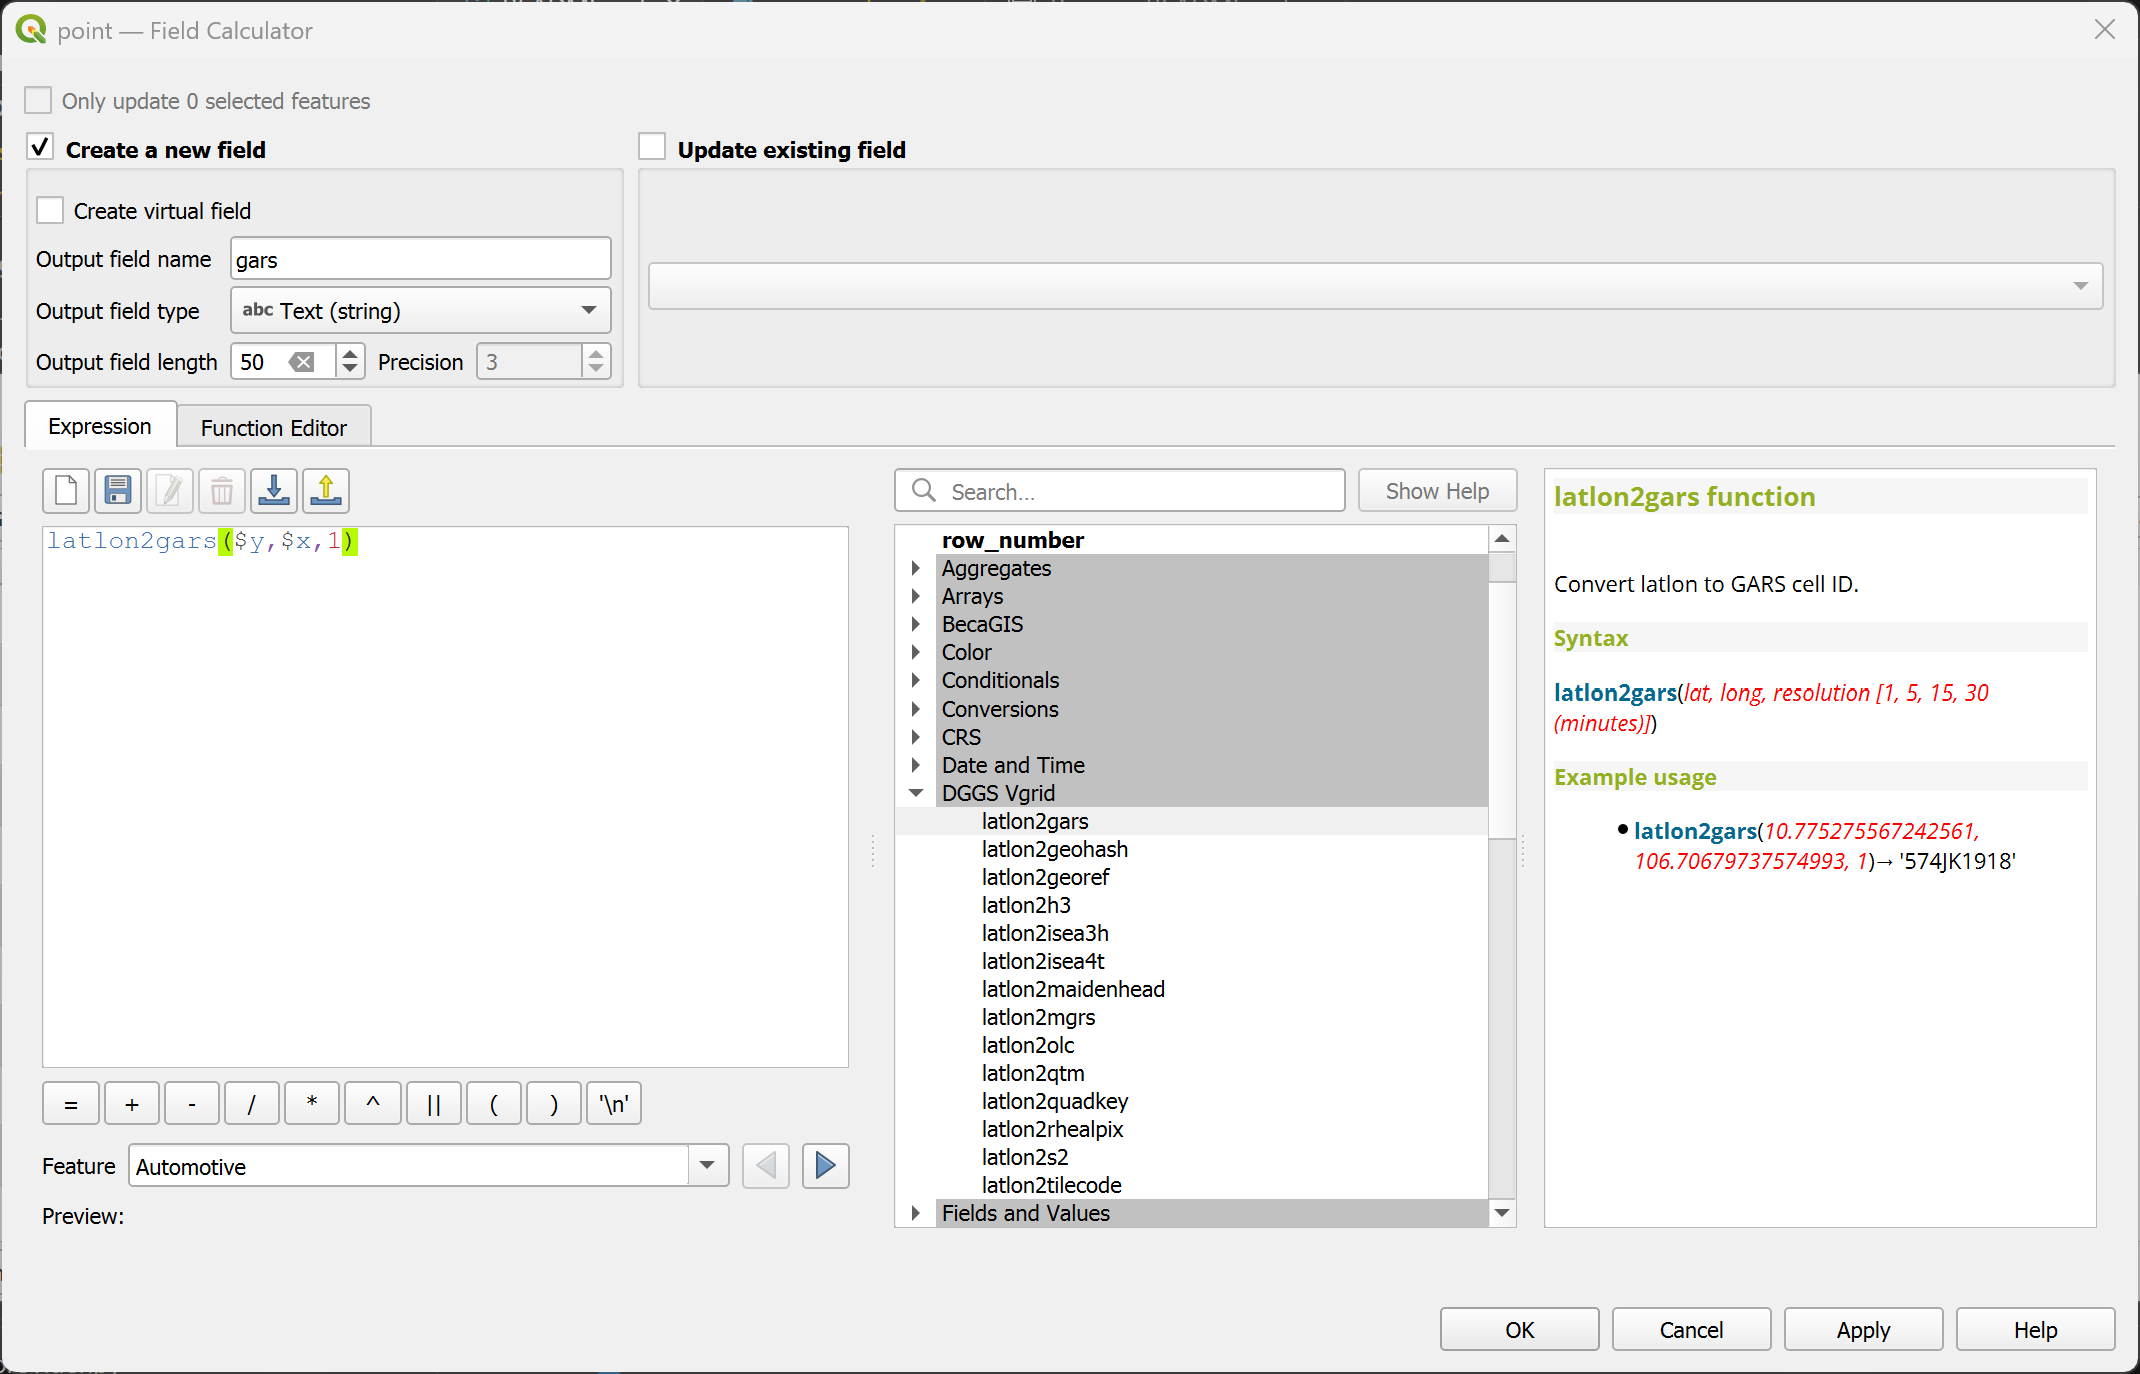
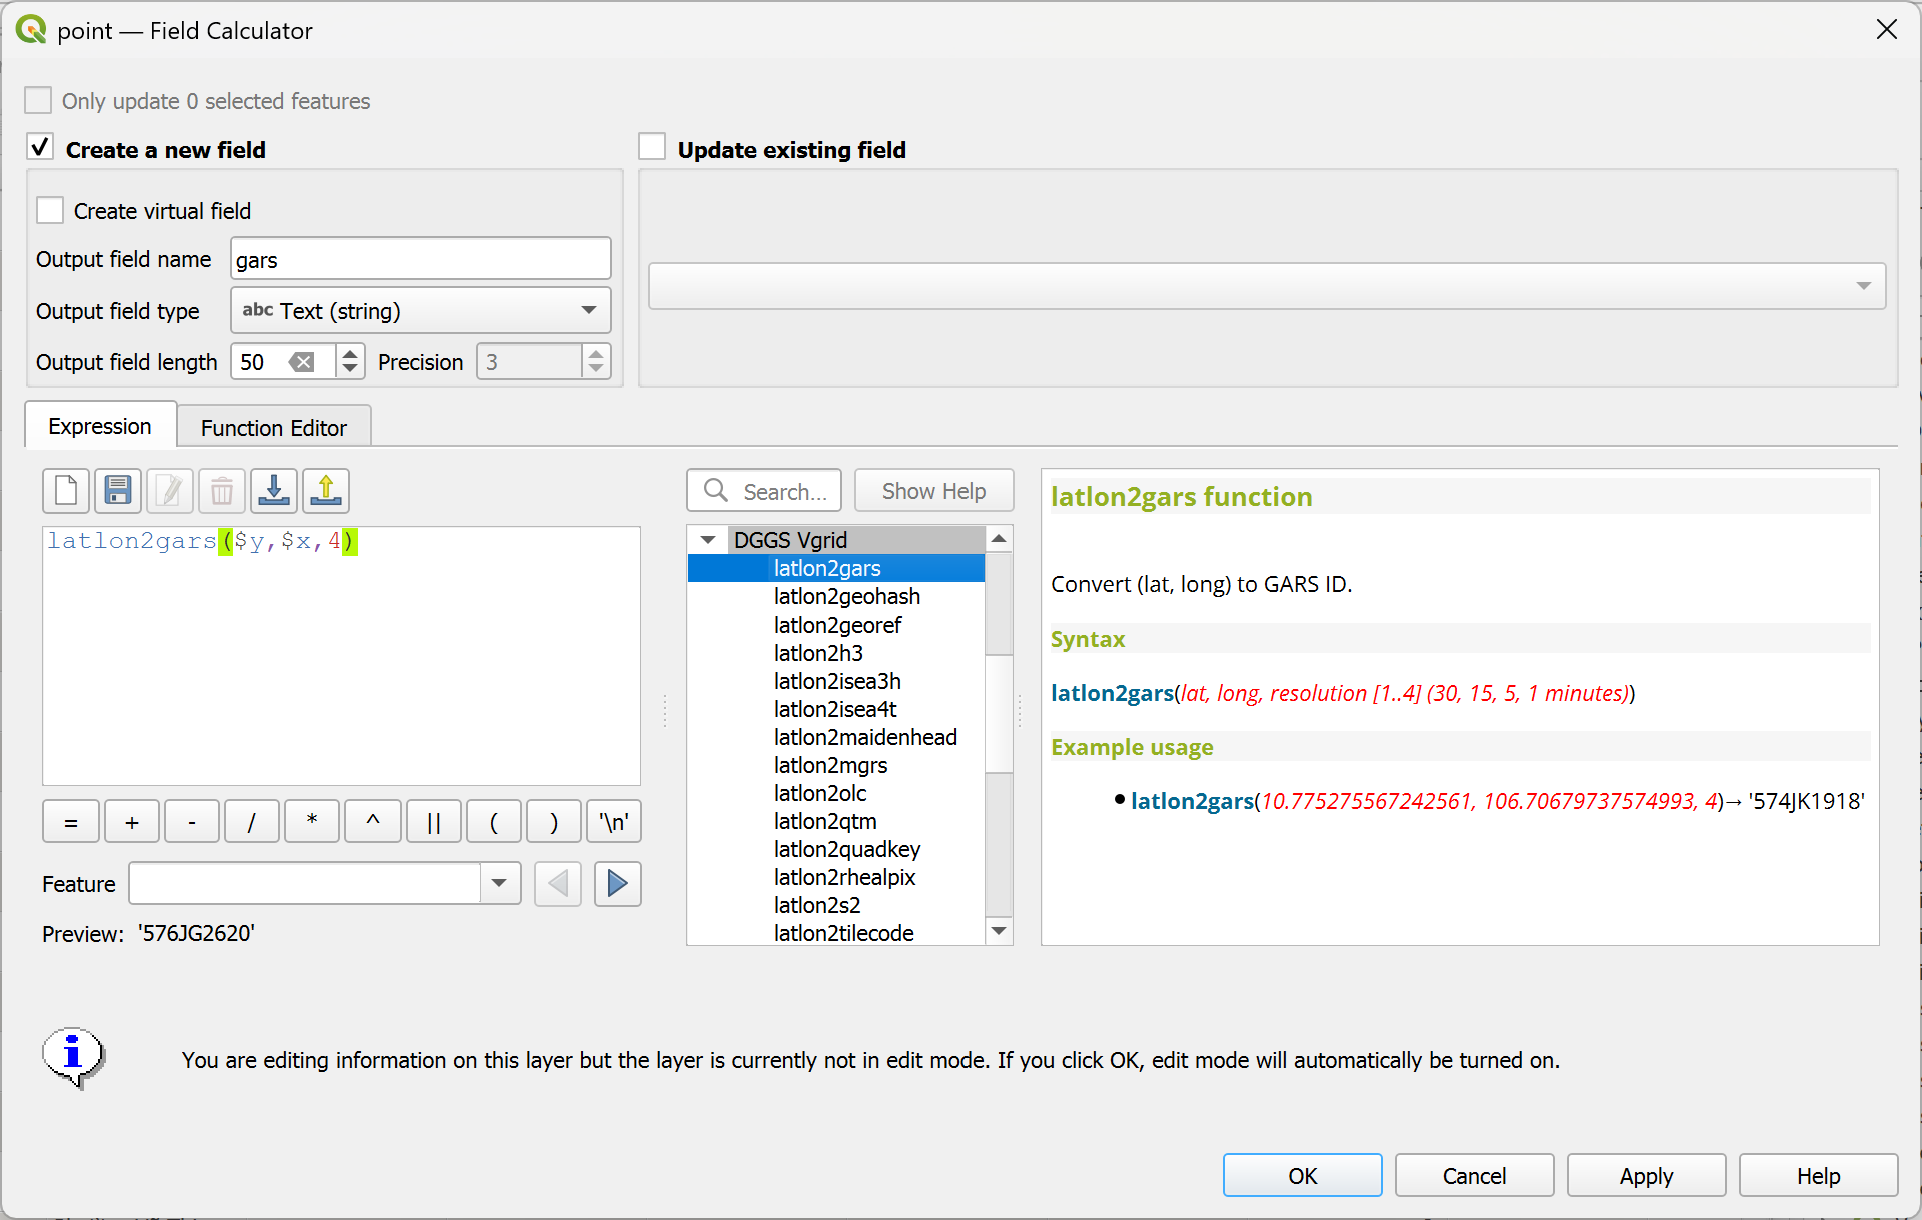
update GARS

diff --git a/processing_provider/generator/gars_grid.py b/processing_provider/generator/gars_grid.py
@@ -22,7 +22,7 @@ from qgis.core import (
     QgsFeatureSink,
     QgsProcessingLayerPostProcessorInterface,
     QgsProcessingParameterExtent,
-    QgsProcessingParameterEnum,
+    QgsProcessingParameterNumber,
     QgsProcessingException,
     QgsProcessingParameterFeatureSink,
     QgsProcessingAlgorithm,
@@ -112,15 +112,15 @@ class GARSGrid(QgsProcessingAlgorithm):
                                             )
         self.addParameter(param)
 
-        param = QgsProcessingParameterEnum(
+        param = QgsProcessingParameterNumber(
             self.RESOLUTION,
-            self.tr('Resolution in minutes [30, 15, 5, 1]'),
-            [self.tr('30 minutes'), self.tr('15 minutes'),self.tr('5 minutes'),self.tr('1 minute')],
-            defaultValue=0,  # Default to the first option (30 minutes)
+            self.tr('Resolution [1..4] (30, 15, 5, 1 minutes)'),
+            defaultValue=1,  # Default to the first option (30 minutes)
+             minValue= 0,
+            maxValue=5,
             optional=False
         )
         self.addParameter(param)
-
 
         param = QgsProcessingParameterFeatureSink(
                 self.OUTPUT,
@@ -128,18 +128,16 @@ class GARSGrid(QgsProcessingAlgorithm):
         self.addParameter(param)
                     
     def prepareAlgorithm(self, parameters, context, feedback):
-        resolution_index = self.parameterAsEnum(parameters, self.RESOLUTION, context)
-        resolution_values = [30,15,5,1]
-        self.resolution = resolution_values[resolution_index]
-        if self.resolution not in  [30,15,5,1]:
-            feedback.reportError('Resolution must be in [30,15,5,1] minutes')
+        self.resolution = self.parameterAsInt(parameters, self.RESOLUTION, context)
+        if self.resolution < 1 or self.resolution> 4:
+            feedback.reportError('Resolution must be in range [1..4]')
             return False
 
         # Get the extent parameter
         self.grid_extent = self.parameterAsExtent(parameters, self.EXTENT, context)
 
-        if self.resolution < 30 and (self.grid_extent is None or self.grid_extent.isEmpty()):
-            feedback.reportError('For performance reason, when resolution is smaller than 30 minutes, the grid extent must be set.')
+        if self.resolution > 1 and (self.grid_extent is None or self.grid_extent.isEmpty()):
+            feedback.reportError('For performance reason, when resolution is greater than 1, the grid extent must be set.')
             return False
         
         return True
@@ -173,9 +171,18 @@ class GARSGrid(QgsProcessingAlgorithm):
 
         lon_min, lon_max = -180.0, 180.0
         lat_min, lat_max = -90.0, 90.0
-        res = self.resolution/ 60.0      
-        longitudes = np.arange(lon_min, lon_max, res)
-        latitudes = np.arange(lat_min, lat_max, res)
+        minutes_map = {
+                1: 30,  # 30 minutes
+                2: 15,  # 15 minutes
+                3: 5,   # 5 minutes
+                4: 1    # 1 minute
+            }
+        
+        resolution_minutes = minutes_map[self.resolution]
+        resolution_degrees = resolution_minutes / 60.0
+
+        longitudes = np.arange(lon_min, lon_max, resolution_degrees)
+        latitudes = np.arange(lat_min, lat_max, resolution_degrees)
             
         if self.grid_extent is None or self.grid_extent.isEmpty():          
             # Calculate total cells for progress reporting
@@ -189,16 +196,16 @@ class GARSGrid(QgsProcessingAlgorithm):
                 for lat in latitudes:
                     cell_polygon = Polygon([
                         (lon, lat),
-                        (lon + res, lat),
-                        (lon + res, lat + res),
-                        (lon, lat + res),
+                        (lon + resolution_degrees, lat),
+                        (lon + resolution_degrees, lat + resolution_degrees),
+                        (lon, lat + resolution_degrees),
                         (lon, lat) ])
                     cell_geometry = QgsGeometry.fromWkt(cell_polygon.wkt)
                     gars_feature = QgsFeature()
                     gars_feature.setGeometry(cell_geometry)
                     
                     center_lat, center_lon, cell_width, cell_height, cell_area = graticule_dggs_metrics(cell_polygon)
-                    gars_id = str(GARSGRID.from_latlon(lat, lon, res * 60))
+                    gars_id = str(GARSGRID.from_latlon(lat, lon, resolution_minutes))
                     gars_feature.setAttributes([gars_id, self.resolution,center_lat, center_lon, cell_width, cell_height, cell_area])                    
                     
                     sink.addFeature(gars_feature, QgsFeatureSink.FastInsert)         
@@ -211,10 +218,10 @@ class GARSGrid(QgsProcessingAlgorithm):
            
         else:
             # Calculate the cell indices corresponding to the extent bounds
-            min_x = max(0, int((self.grid_extent.xMinimum() - lon_min) / res))
-            max_x = min(len(longitudes), int((self.grid_extent.xMaximum() - lon_min) / res) + 1)
-            min_y = max(0, int((self.grid_extent.yMinimum() - lat_min) / res))
-            max_y = min(len(latitudes), int((self.grid_extent.yMaximum() - lat_min) / res) + 1)
+            min_x = max(0, int((self.grid_extent.xMinimum() - lon_min) /  resolution_degrees))
+            max_x = min(len(longitudes), int((self.grid_extent.xMaximum() - lon_min) / resolution_degrees) + 1)
+            min_y = max(0, int((self.grid_extent.yMinimum() - lat_min) / resolution_degrees))
+            max_y = min(len(latitudes), int((self.grid_extent.yMaximum() - lat_min) / resolution_degrees) + 1)
 
             # Total cells to process, for progress feedback
             total_cells = (max_x - min_x) * (max_y - min_y)
@@ -228,9 +235,9 @@ class GARSGrid(QgsProcessingAlgorithm):
                     lat = latitudes[j]
                     cell_polygon = Polygon([
                         (lon, lat),
-                        (lon + res, lat),
-                        (lon + res, lat + res),
-                        (lon, lat + res),
+                        (lon + resolution_degrees, lat),
+                        (lon + resolution_degrees, lat + resolution_degrees),
+                        (lon, lat + resolution_degrees),
                         (lon, lat) ])
                    
                     cell_geometry = QgsGeometry.fromWkt(cell_polygon.wkt)
@@ -238,7 +245,7 @@ class GARSGrid(QgsProcessingAlgorithm):
                     gars_feature.setGeometry(cell_geometry)
                     
                     center_lat, center_lon, cell_width, cell_height, cell_area = graticule_dggs_metrics(cell_polygon)
-                    gars_id = str(GARSGRID.from_latlon(lat, lon, res * 60))
+                    gars_id = str(GARSGRID.from_latlon(lat, lon, resolution_minutes))
                     gars_feature.setAttributes([gars_id, self.resolution,center_lat, center_lon, cell_width, cell_height, cell_area])                    
                     
                     sink.addFeature(gars_feature, QgsFeatureSink.FastInsert)         

diff --git a/utils/conversion/dggs2qgsfeature.py b/utils/conversion/dggs2qgsfeature.py
@@ -857,6 +857,15 @@ def gars2qgsfeature(feature, gars_id):
         # Extract the bounding box coordinates for the polygon
         x, y = wkt_polygon.exterior.xy  # Assuming exterior.xy returns lists of x and y coordinates
         resolution_minute = gars_grid.resolution
+        resolution = 1
+        if resolution_minute == 30:
+            resolution = 1
+        elif resolution_minute == 15:
+            resolution = 2
+        elif resolution_minute == 5:
+            resolution = 3
+        elif resolution_minute == 1:
+            resolution = 4
         
         # Determine min/max latitudes and longitudes
         min_lon = min(x)
@@ -901,7 +910,7 @@ def gars2qgsfeature(feature, gars_id):
         gars_feature.setFields(all_fields)
         
         # Combine original attributes with new attributes
-        new_attributes = [gars_id,resolution_minute, center_lat, center_lon, cell_width, cell_height,cell_area]
+        new_attributes = [gars_id,resolution, center_lat, center_lon, cell_width, cell_height,cell_area]
         all_attributes = original_attributes + new_attributes
         
         gars_feature.setAttributes(all_attributes) 

diff --git a/expressions.py b/expressions.py
@@ -386,11 +386,11 @@ def latlon2gars(latitude, longitude, resolution, feature, parent):
   </style>
    Convert (lat, long) to GARS ID.
   <h4>Syntax</h4>    
-    <li><span class = function>latlon2gars</span>(<span class = parameters>lat, long, resolution [1, 5, 15, 30 (minutes)]</span>)</li>
+    <li><span class = function>latlon2gars</span>(<span class = parameters>lat, long, resolution [1..4] (30, 15, 5, 1 minutes)</span>)</li>
   <h4>Example usage</h4>
 
   <ul>
-    <li><span class = function>latlon2gars</span>(<span class = parameters>10.775275567242561, 106.70679737574993, 1</span>)&rarr; '574JK1918'</li>
+    <li><span class = function>latlon2gars</span>(<span class = parameters>10.775275567242561, 106.70679737574993, 4</span>)&rarr; '574JK1918'</li>
   </ul>      
   """ 
   return latlon2dggs.latlon2gars(latitude, longitude, resolution) 

diff --git a/processing_provider/generator/georef_grid.py b/processing_provider/generator/georef_grid.py
@@ -127,7 +127,7 @@ class GEOREFGrid(QgsProcessingAlgorithm):
     def prepareAlgorithm(self, parameters, context, feedback):
         self.RESOLUTION = self.parameterAsInt(parameters, self.RESOLUTION, context)  
         if self.RESOLUTION < 0 or self.RESOLUTION>5:
-            feedback.reportError('Density parameter must be in range [0,5]')
+            feedback.reportError('Resolution must be in range [0,5]')
             return False
          
          # Get the extent parameter

diff --git a/README.md b/README.md
@@ -56,8 +56,10 @@
 ### After installing `vgridtools`, a dialog will appear prompting you to install `vgrid`. Copy the following commands:
 ```python
 import pip  
-pip.main(['install', 'vgrid'])
+pip.main(['install', 'vgrid --upgrade'])
 ```
+### Use the same command after upgrading vgridtools
+
 <div align="center">
   <img src="images/readme/vgriddialog.png">
 </div>
@@ -372,11 +374,11 @@ Convert (lat, long) to Maidenhead ID.
 Convert (lat, long) to GARS Code.
 <h4>Syntax</h4>
 <li>
-<code>latlon2gars(lat, long, resolution [1, 5, 15, 30 (minutes)]) or latlon2gars($y, $x, resolution)</span> in WGS84 CRS</code>
+<code>latlon2gars(lat, long, resolution [1..4] (30, 15, 5, 1 minutes)) or latlon2gars($y, $x, resolution)</span> in WGS84 CRS</code>
 </li> 
 <h4>Example usage</h4>
 <li>
-<code>latlon2gars(10.775275567242561, 106.70679737574993, 1)→ '574JK1918'</code>
+<code>latlon2gars(10.775275567242561, 106.70679737574993, 4)→ '574JK1918'</code>
 </li>
 <br/>
 <div align="center">
